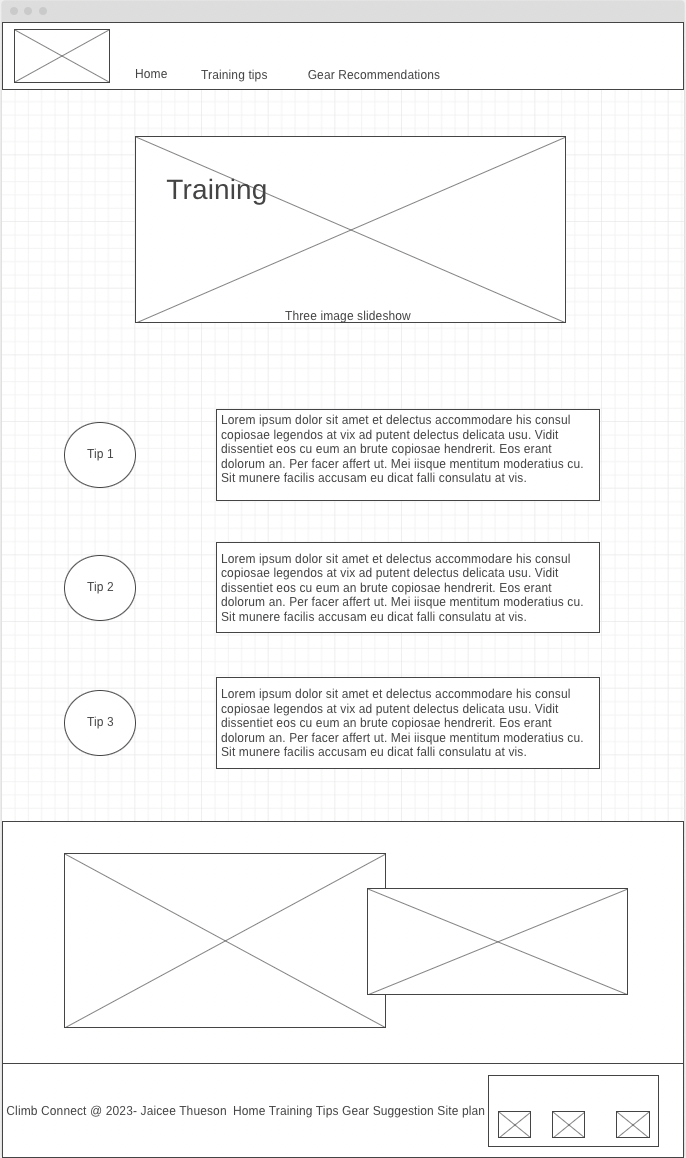
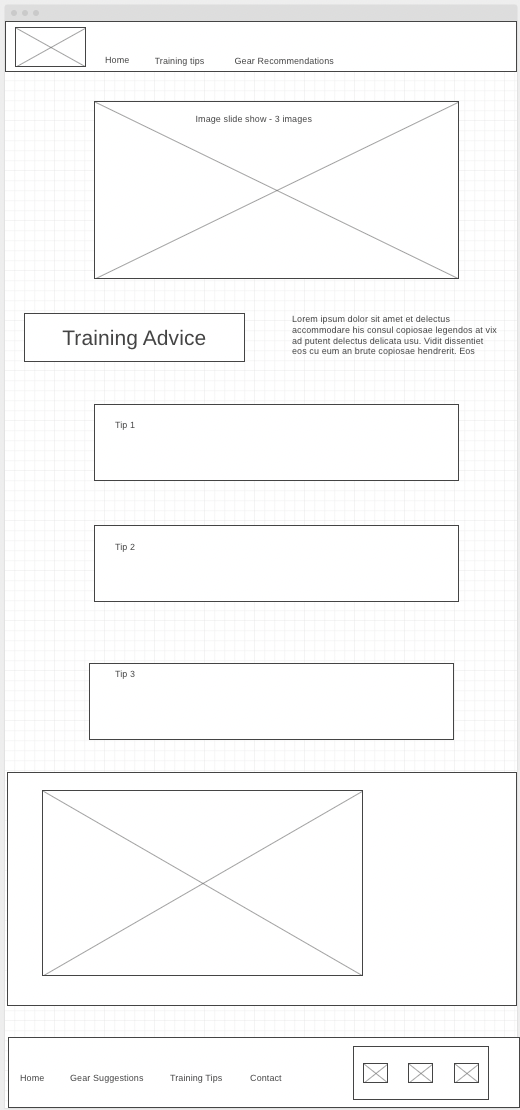
personal site page two complete

diff --git a/rockclimbing/training.html b/rockclimbing/training.html
@@ -55,11 +55,13 @@
                 <span class="dot" onclick="currentSlide(3)"></span>
               </div>
 
+
               <div class="header-grid-container">
                 <div class="grid-title">Training Tips</div>
                 <div class="grid-explain">No matter your training plan the key to success is sticking to whatever you have your mind set towards. Here are three ways you can train efficiently for the best results!</div>
               </div>
-        </div>
+              
+            </div>
         <main class="training-grid">
           <div class="tip">
             
@@ -74,12 +76,12 @@
             <p><span>Tip 3</span> <br>Improve Explosive power… Power is defined as the pace at which you can exert force, or the capacity to make a difficult maneuver rapidly. Consider huge throws, deadpoints, and dynos.To improve these begin with single arm hangs for about 2-5 seconds. Let your arm hang and hold the weight of your body.</p>
           </div>
         </main>
-        <div class="container">
-          <div class="overlay">
+          <div class="container">
+            <div class="overlay">
             <img class="training-1" src="images/outdoorclimb.jpg" alt="Outdoor climbing">
-            <img class="training-2" src="images/manclimbing.jpg" alt="Outdoor climbing">
+            </div>
           </div>
-        </div>
+          
         <footer>
             <p>Climb Connect &copy; 2023 - Jaicee Thueson</p>
             <div class="footerone">
@@ -106,7 +108,7 @@
                     </a>
             </div>
         </footer>
-
+        
         <script>
             let slideIndex = 0;
             showSlides();

diff --git a/rockclimbing/climbingstyles.css b/rockclimbing/climbingstyles.css
@@ -237,32 +237,27 @@ footer p a:hover {
   font-size: 4em;
   margin-left: 10%;
   align-items: center;
-}
+  }
 .grid-explain {
   margin-right: 10%;
   align-items: center;
   margin-top: 10px;
-
+  
+  
 }
 .training-grid {
   display: flex;
   flex-direction: column;
 }
-
+  
+  
 .tip {
   display: flex;
   align-items: center;
   gap: 10px;
   margin-bottom: 10px;
 }
-
-/* .circle {
-  line-height: 120px;
-  border-radius: 50%;
-  text-align: center;
-  font-size: 32px;
-  border: 15px solid #000;
-} */
+  
 p span {
   color: black;
   font-size: 1.2em;
@@ -275,11 +270,7 @@ p span {
 }
 .container img:first-child {
   padding: 10%;
-  z-index: 1;
-}
-.container img:last-child {
-  padding: 10%;
-  z-index: 2;
+  
 }
 
 

diff --git a/rockclimbing/site-plan.html b/rockclimbing/site-plan.html
@@ -193,7 +193,7 @@
       <p>         
         The training advice page will feature a variety of ways to get better at rock climbing along with some images. 
       </p>
-      <img src="images/trainingwire.png" alt="training advice page wireframe" width="500">
+      <img src="images/trainingwire.png" alt="this is the training advice page wireframe" width="500">
     </main>
   </body>
 
